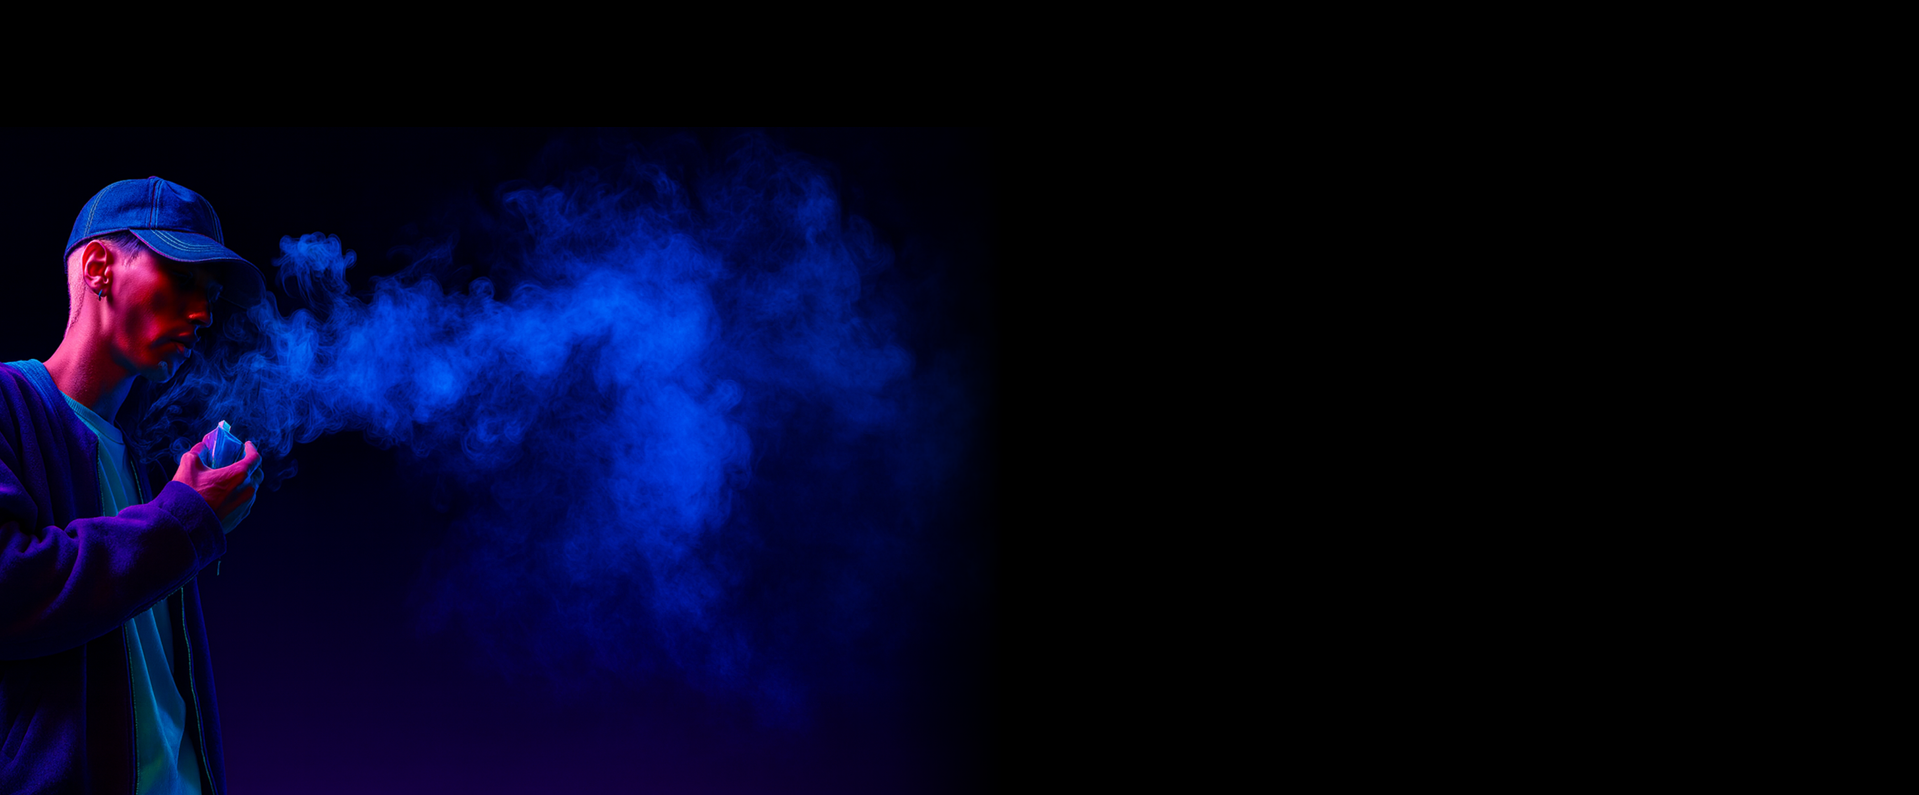
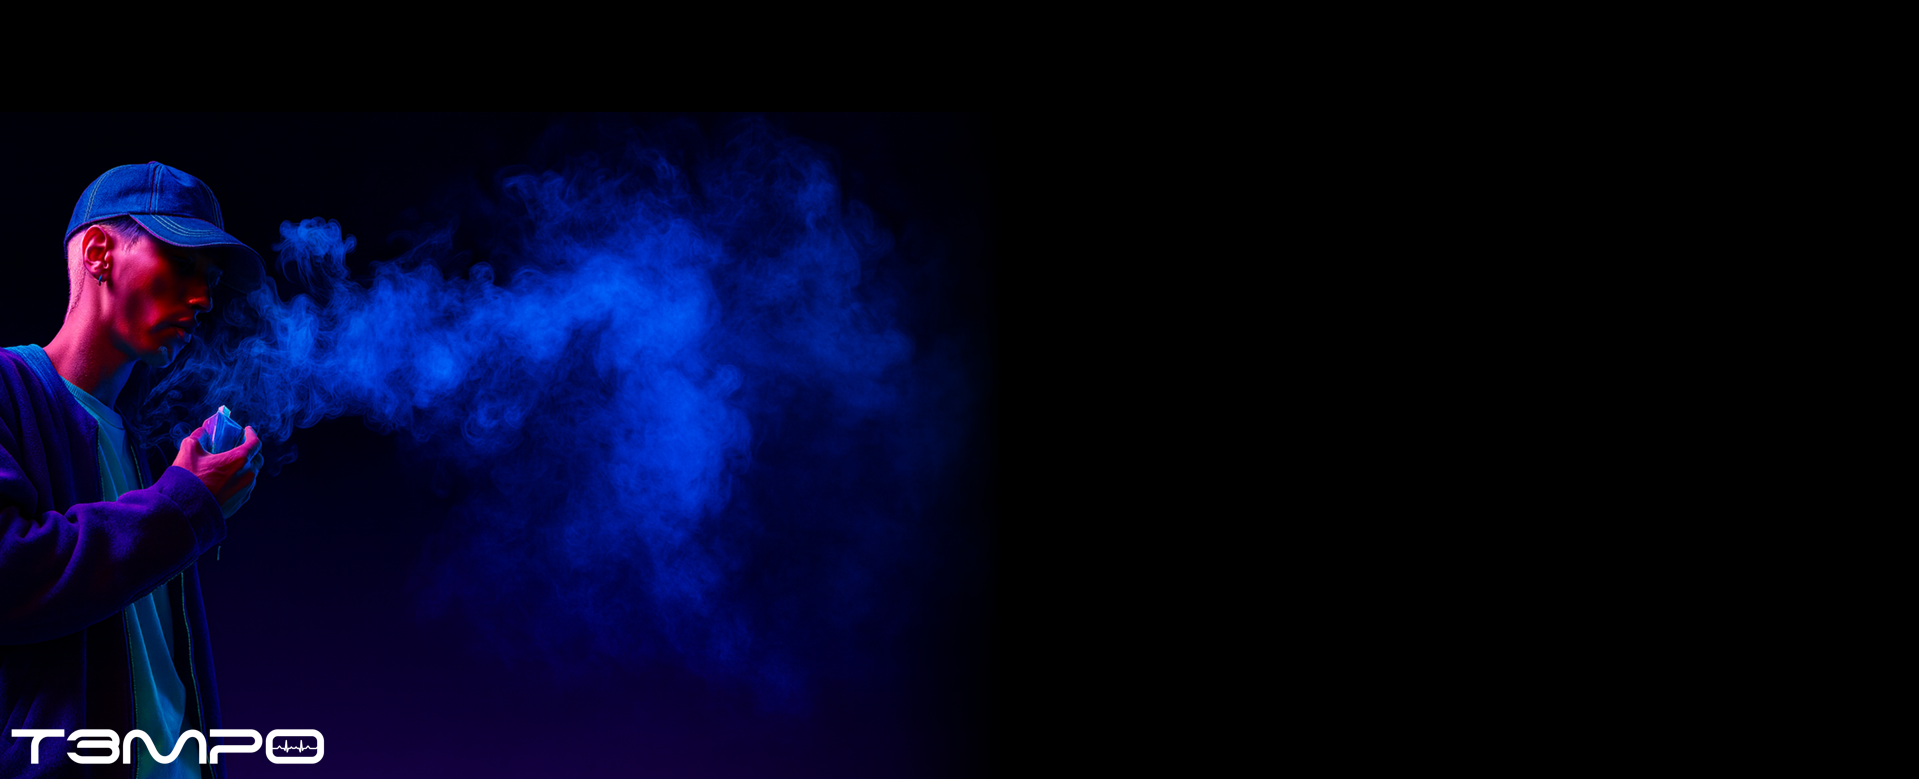
update asdf 0922

Changed region(s): [[0.0, 0.1232, 0.4612, 0.7394], [0.0, 0.9243, 0.1845, 0.9859], [0.0615, 0.7394, 0.0922, 0.7702]]

diff --git a/src/index.css b/src/index.css
@@ -188,27 +188,58 @@ html, body {
 .grid5-fixed > .cell:nth-child(5){ grid-column: 4; grid-row: 2; }
 
 /* ===== Bottom: 배너 슬라이드(티커) — 배경영상 바로 위 ===== */
+/* 공통 변수 (QR와 슬라이드가 공유) */
 .tempo-wrap{
-  /* 카드/트랙 크기 변수 */
-  --h: clamp(180px, 18vh, 360px);
-  --gap: 20px;
-  --visible: 2.5;
+  --h: clamp(180px, 18vh, 360px);   /* 배너/QR 높이 */
+  --gapX: 24px;                     /* QR ↔ 슬라이드 간격 */
+  --gap: 20px;                      /* 슬라이드 카드 간격 */
+  --visible: 2.5;                   /* 동시에 보이는 카드 수 (정보용) */
   --ratio: 2.3392857;               /* 1310 / 560 */
   --itemW: calc(var(--h) * var(--ratio));
   --duration: 22s;
 
   position: fixed;
-  left: 50%;
-  bottom: calc(var(--stage-h) + var(--stage-gap));  /* ✅ 스테이지 위 */
-  transform: translateX(-50%);
-  display: flex;
+  left: 0;                          /* ✅ 화면 전체 폭 사용 */
+  right: 0;
+  bottom: calc(var(--stage-h) + var(--stage-gap));  /* ← 스테이지 위에 정확히 위치 */
+  z-index: 6;
+
+  display: grid;                    /* ✅ 왼쪽 QR, 오른쪽 슬라이드 */
+  grid-template-columns: auto 1fr;
   align-items: center;
-  z-index: 6;                        /* 스테이지(5) 위 */
+  column-gap: var(--gapX);
+
+  padding-inline: 24px;             /* 좌우 여백(원하면 조절) */
 }
 
+/* QR: 티커 높이에 자동 맞춤 */
+.qr-stack{
+  display: flex;
+  flex-direction: column;
+  align-items: center;
+  gap: 3px;
+  pointer-events: none;
+  justify-self: start;              /* 왼쪽 정렬 */
+}
+.qr-raw{
+  height: var(--h);                 /* ✅ 티커와 같은 높이 */
+  width: auto;
+  display: block;
+  image-rendering: auto;
+}
+.qr-txt{
+  font-weight: 800;
+  letter-spacing: .08em;
+  font-size: clamp(12px, 1.6vh, 16px);
+  color: #ffffff;
+  text-shadow: 0 2px 8px rgba(0,0,0,.6);
+}
+
+/* 슬라이드: 남은 모든 너비를 차지 */
 .tempo-ticker{
-  width: 100vw;                      /* 전폭 */
+  width: 100%;                      /* ✅ QR을 제외한 나머지 전폭 */
   overflow: hidden;
+  pointer-events: none;
 }
 .tempo-track{
   display:flex;
@@ -227,13 +258,26 @@ html, body {
   box-shadow: 0 6px 16px rgba(0,0,0,.35);
 }
 .tempo-item img{
-  width:100%; height:100%;
-  object-fit:cover; display:block;
+  width:100%;
+  height:100%;
+  object-fit: cover;                /* 배너 이미지 답게 꽉 채움 */
+  display:block;
 }
 @keyframes tempo-scroll{
   from{ transform: translateX(0); }
   to  { transform: translateX(-50%); }
 }
+
+/* 아주 좁은 화면 */
+@media (max-width: 520px){
+  .tempo-wrap{ bottom: 48px; padding-inline: 14px; --gapX: 14px; --h: 140px; }
+  .qr-txt{ font-size: 12px; }
+}
+
+
+
+
+
 
 /* ✅ 티커 바로 위에 고정 (배경영상보다 위) */
 .tempo-bg{
@@ -262,4 +306,63 @@ html, body {
     --grid-gap-x: 16px;
     --grid-gap-y: 20px;
   }
+}
+
+
+
+/* --- powered by neon label --- */
+/* --- powered by neon label --- */
+.powered-by{
+  position: fixed;
+  right: 24px;             /* ✅ 오른쪽으로 이동 */
+  left: auto;              /* ✅ 기존 left 제거 */
+  bottom: calc(var(--stage-h) + var(--stage-gap) + var(--ticker-h) + 12px);
+  z-index: 7;
+  pointer-events: none;
+  display: inline-flex;
+  align-items: center;
+  gap: 12px;               /* 살짝 키움 */
+  padding: 8px 12px;       /* 살짝 키움 */
+  border-radius: 999px;
+  background: rgba(8,8,12,0.32);
+  outline: 1px solid rgba(255,255,255,0.16);
+  box-shadow:
+    0 0 14px rgba(97,228,255,0.40),
+    inset 0 0 14px rgba(97,228,255,0.14);
+}
+
+.powered-by .pb-prefix{
+  font-family: var(--ui-font-body, system-ui,-apple-system,sans-serif);
+  font-size: clamp(11px, 1.0vw, 18px);   /* ↑ 살짝 키움 */
+  letter-spacing: .12em;
+  text-transform: uppercase;
+  opacity: .9;
+  color: #CFEFFF;
+}
+
+.powered-by .pb-brand{
+  font-family: var(--ui-font-title, "Orbitron", system-ui);
+  font-weight: 800;
+  font-size: clamp(14px, 1.3vw, 24px);   /* ↑ 살짝 키움 */
+  letter-spacing: .08em;
+  color: #61E4FF;
+  text-shadow:
+    0 0 7px #61E4FF,
+    0 0 16px #61E4FF,
+    0 0 30px #61E4FF99;
+  filter: saturate(1.2);
+  position: relative;
+}
+
+.powered-by .pb-brand::after{
+  content:'';
+  position:absolute; left:0; right:0; bottom:-5px; /* 위치 약간 조정 */
+  height:2px; border-radius:2px;
+  background: radial-gradient(closest-side, #61E4FF 60%, transparent);
+  box-shadow: 0 0 12px #61E4FF99, 0 0 22px #61E4FF66;
+}
+
+/* 작은 화면 보정 */
+@media (max-width: 540px){
+  .powered-by{ right: 12px; }
 }

diff --git a/src/components/TempoTicker.tsx b/src/components/TempoTicker.tsx
@@ -1,23 +1,32 @@
-const IMGS = [
-  './tempo_slide/1.png',
-  './tempo_slide/2.png',
-  './tempo_slide/3.png',
-  './tempo_slide/4.png',
-  './tempo_slide/5.png',
-]
-
 export default function TempoTicker() {
-  const loop = [...IMGS, ...IMGS]
+  const imgs = [
+    './tempo_slide/1.png',
+    './tempo_slide/2.png',
+    './tempo_slide/3.png',
+    './tempo_slide/4.png',
+    './tempo_slide/5.png',
+  ]
   return (
-    <div className="tempo-wrap" aria-hidden>
+    <div className="tempo-wrap">
+      <div className="qr-stack">
+        <img className="qr-raw" src="./tempo_slide/QRCode.png" alt="QR Code" />
+      </div>
+
+      {/* 슬라이드 */}
       <div className="tempo-ticker">
         <div className="tempo-track">
-          {loop.map((src, i) => (
+          {imgs.concat(imgs).map((src, i) => (
             <div className="tempo-item" key={i}>
-              <img src={src} alt="" />
+              <img src={src} alt={`tempo-${(i % imgs.length) + 1}`} />
             </div>
           ))}
         </div>
+      </div>
+
+      {/* ✅ 티커 슬라이드 ‘바로 왼쪽 위’ 네온 라벨 */}
+      <div className="powered-by">
+        <span className="pb-prefix">powered by</span>
+        <span className="pb-brand">ADAM&nbsp;AI</span>
       </div>
     </div>
   )

diff --git a/src/App.tsx b/src/App.tsx
@@ -16,12 +16,15 @@ export default function App() {
 
       {/* 제품 5칸 그리드 */}
       <div className="grid5-fixed">
+
+        {/* 1~5번: 기존 mp4들 */}
         <div className="cell"><video src="./product/1.mp4" autoPlay muted loop playsInline /></div>
         <div className="cell"><video src="./product/2.mp4" autoPlay muted loop playsInline /></div>
         <div className="cell"><video src="./product/3.mp4" autoPlay muted loop playsInline /></div>
         <div className="cell"><video src="./product/4.mp4" autoPlay muted loop playsInline /></div>
         <div className="cell"><video src="./product/5.mp4" autoPlay muted loop playsInline /></div>
       </div>
+
 
       {/* ✅ 연기 커서가 셀과 교차하면 여기에 정보 카드가 뜬다(티커 위 레이어) */}
       <ProductInfoOverlay />
